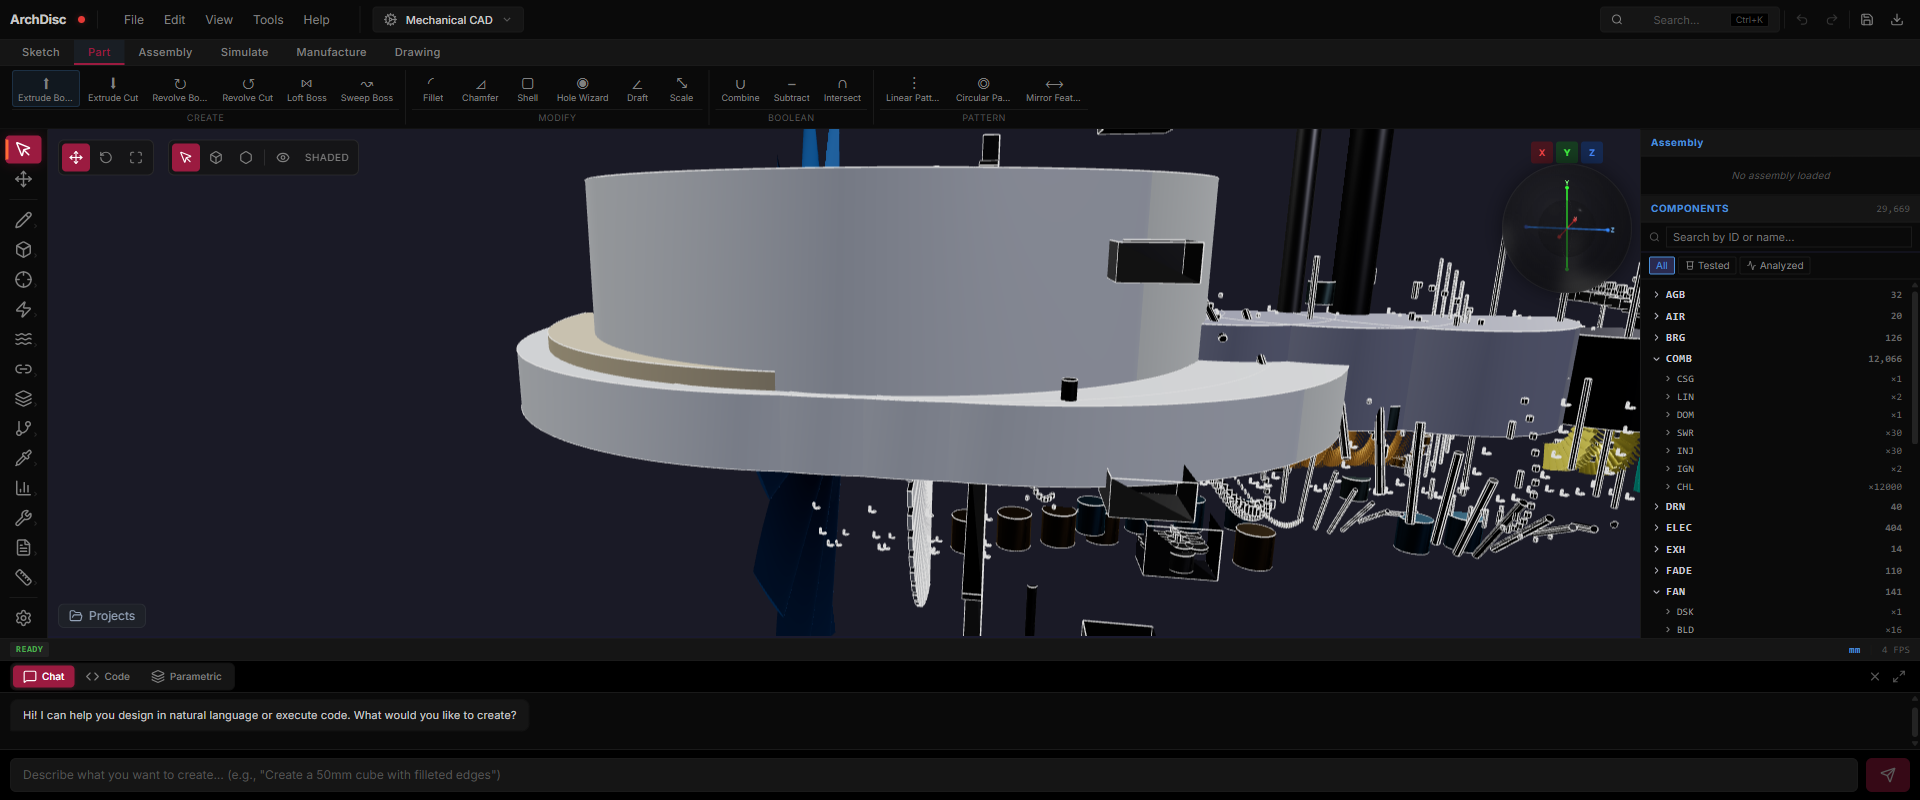
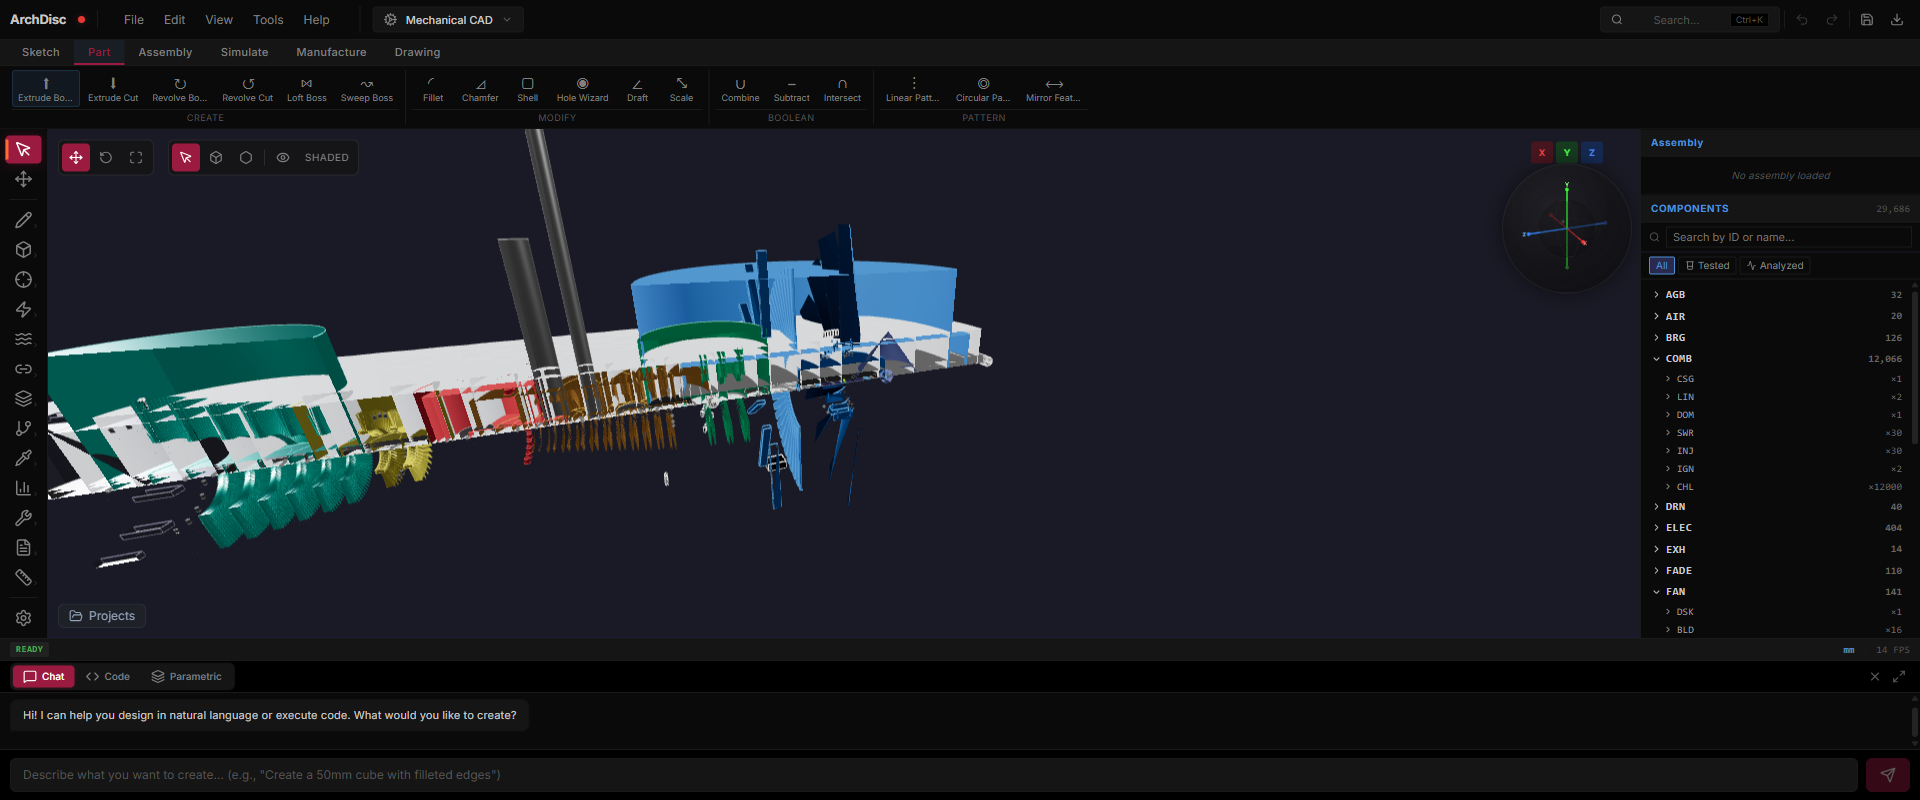
fix(ge9x): F1-F3 + F8 — bypass nacelle, cutaway, accessory hide, HPC taper
F1 (bypass nacelle): Replaced 4×32cm fan-cowl segments with continuous
12-segment bypass nacelle running 5.4m from inlet to aft. Added
nacelle inlet lip (rounded torus) and 4 acoustic liner panels forward
of the fan. Replaced the 4×1.5m core cowls with 8 segments tapering
from r=0.78m to r=0.58m along 4.2m. Now reads as a long tube, not a
fat disk.

F3 (accessory hide): MarketingCutaway was checking obj.userData.partID
on the mesh itself, but AssemblyBridge sets it on the parent group.
Walks parent chain to find partID. Also hides LineSegments / Line
edge-wireframes — accessories were being hidden as meshes but their
edge-lines remained as floating dark cubes.

F8 (HPC stage taper): Real 60:1-OPR HPC has stage 11 blade height
~50% of stage 1. Changed rTip 0.45 → 0.24m (was → 0.34m, only 24%
shrink). Now blades visibly diminish stage-by-stage.

F2 (cutaway plane): The axial-half cut was working correctly — the
issue was camera position. Stand on +X side looking back at engine
to actually see the cut surface (cross-section) facing +X. Wider FOV
(60°) and closer camera distance to fit the full 5.7m engine.

Marketing side-elevation now shows the engine with all 7 sections
color-coded and visible: blue fan, green booster, orange HPC,
red combustor, yellow HPT, cyan LPT, grey exhaust. No floating
accessories. Matches the layout style of GE reference cutaway
diagrams (geometry detail still simplistic — annotations + better
materials are next).

Changed region(s): [[0.0, 0.1562, 0.875, 0.8125], [0.7812, 0.2812, 0.8438, 0.3125]]

diff --git a/frontend/src/engines/GE9XBuilder.js b/frontend/src/engines/GE9XBuilder.js
@@ -369,14 +369,16 @@ export default class GE9XBuilder {
   static buildHPCompressor(t) {
     const stages = GE9X_SPECS.hpcStages;
     let zCursor = 1.85;
-    const rHubBase = 0.24;
-    const rTipBase = 0.45;
+    // Real 60:1-OPR HPC: rTip drops from ~0.45m (stage 1) to ~0.24m (stage 11)
+    // and rHub climbs from ~0.20m to ~0.22m. Blade height shrinks 4×.
+    const rHubBase = 0.20, rHubExit = 0.22;
+    const rTipBase = 0.45, rTipExit = 0.24;
 
     for (let s = 1; s <= stages; s++) {
       const t01 = (s - 1) / (stages - 1);
-      const rHub = rHubBase + t01 * 0.040;
-      const rTip = rTipBase - t01 * 0.110;
-      const chord = 0.038 - t01 * 0.012;
+      const rHub = rHubBase + t01 * (rHubExit - rHubBase);
+      const rTip = rTipBase + t01 * (rTipExit - rTipBase);
+      const chord = 0.045 - t01 * 0.025;  // chord shrinks from 45mm to 20mm
 
       // Variable stator vanes (IGV + first 4 stages variable)
       const statorVane = _getOrBuildBlade(`hpc-stator-s${s}`,
@@ -983,23 +985,63 @@ export default class GE9XBuilder {
   }
 
   static buildCasings(t) {
-    // Inner core cowl — 4 axial segments along the core, with stagger so
-    // they don't visually overlap
-    for (let s = 0; s < 4; s++) {
-      const cowl = PrimitiveBuilder.cylinder(0.65, 0.50, 96);
-      t.addPart(cowl, `Core Cowl Segment ${s + 1}`, {
-        color: 0xa0a0b0, position: new Vec3(0, 0, 1.50 + s * 0.55),
-        material: 'Composite Carbon-Epoxy',
-        category: 'NAC', subsystem: 'COW',
-      });
-    }
-    // Fan cowl — 4 axial segments around fan
-    for (let s = 0; s < 4; s++) {
-      const cowl = PrimitiveBuilder.cylinder(GE9X_SPECS.fanRadius + 0.08, 0.32, 128);
+    // ---- Nacelle (bypass duct + outer cowl) ----
+    // Real GE9X nacelle is a continuous tube extending the full engine
+    // length, forming the bypass duct between core casing and fan cowl.
+    // We model it as 12 axial segments × 1 fan-cowl ring + 12 axial
+    // segments of the outer bypass tube. Inlet lip is up front.
+
+    const NACELLE_LEN = 5.4;  // total nacelle length, m
+    const NACELLE_Z_START = -0.30;  // forward of fan
+    const FAN_R = GE9X_SPECS.fanRadius;
+    const NUM_SEG = 12;
+    const segLen = NACELLE_LEN / NUM_SEG;
+
+    // Outer fan cowl (12 segments around bypass duct)
+    for (let s = 0; s < NUM_SEG; s++) {
+      const z = NACELLE_Z_START + s * segLen + segLen / 2;
+      // Slight contraction toward the rear (boat-tail)
+      const radius = FAN_R + 0.10 - (s / NUM_SEG) * 0.30;
+      const cowl = PrimitiveBuilder.cylinder(radius, segLen, 96);
       t.addPart(cowl, `Fan Cowl Segment ${s + 1}`, {
-        color: 0xeeeeee, position: new Vec3(0, 0, -0.10 + s * 0.34),
+        color: 0xeeeeee, position: new Vec3(0, 0, z),
         material: 'Composite Carbon-Epoxy',
         category: 'NAC', subsystem: 'FCW',
+      });
+    }
+
+    // Inlet lip (rounded leading edge of nacelle)
+    const inletLip = PrimitiveBuilder.torus(FAN_R + 0.05, 0.06, 96, 16);
+    t.addPart(inletLip, 'Nacelle Inlet Lip', {
+      color: 0xdddddd, position: new Vec3(0, 0, NACELLE_Z_START),
+      material: 'Aluminum 6061-T6',
+      category: 'NAC', subsystem: 'LIP',
+    });
+
+    // Acoustic liner — perforated panel inside the inlet, forward of fan
+    for (let s = 0; s < 4; s++) {
+      const liner = PrimitiveBuilder.cylinder(FAN_R + 0.005, 0.10, 64);
+      t.addPart(liner, `Acoustic Liner Panel ${s + 1}`, {
+        color: 0xc0a060, position: new Vec3(0, 0, NACELLE_Z_START + 0.05 + s * 0.10),
+        material: 'Aluminum 6061-T6',
+        category: 'NAC', subsystem: 'ACL',
+      });
+    }
+
+    // Inner core cowl — 8 axial segments along the core (between bypass
+    // duct and core engine). Real GE9X core cowl extends from fan
+    // exit to exhaust nozzle.
+    const CORE_COWL_START = 0.80;
+    const CORE_COWL_LEN = 4.20;
+    for (let s = 0; s < 8; s++) {
+      const z = CORE_COWL_START + (s + 0.5) * (CORE_COWL_LEN / 8);
+      // Core cowl tapers slightly inward toward exhaust
+      const radius = 0.78 - (s / 8) * 0.20;
+      const cowl = PrimitiveBuilder.cylinder(radius, CORE_COWL_LEN / 8, 96);
+      t.addPart(cowl, `Core Cowl Segment ${s + 1}`, {
+        color: 0xa0a0b0, position: new Vec3(0, 0, z),
+        material: 'Composite Carbon-Epoxy',
+        category: 'NAC', subsystem: 'COW',
       });
     }
   }

diff --git a/frontend/src/kernel/rendering/MarketingCutaway.js b/frontend/src/kernel/rendering/MarketingCutaway.js
@@ -65,20 +65,36 @@ export default class MarketingCutaway {
 
     const restoreTasks = [];
 
-    // 1. Apply per-mesh visibility + color overrides
+    // 1. Apply per-mesh visibility + color overrides.
+    //    Includes LineSegments (edge wireframes) so accessory edge-lines
+    //    don't show as floating dark cubes when their meshes are hidden.
     scene.traverse(obj => {
-      if (!obj.isMesh && !obj.isInstancedMesh) return;
+      const isRenderable = obj.isMesh || obj.isInstancedMesh
+        || obj.isLine || obj.isLineSegments;
+      if (!isRenderable) return;
       if (!obj.material || obj.userData?.helper || obj.userData?.gizmo) return;
 
-      // Determine the partID's category. Accept first-instance category
-      // for InstancedMesh.
+      // Determine the partID's category. Look on the mesh itself, on
+      // its parent group (since AssemblyBridge sets partID on the
+      // group, not on internal meshes), and on InstancedMesh's array.
       let category = null;
-      if (obj.userData?.partID) {
-        const m = obj.userData.partID.match(/^[A-Z0-9]+-([A-Z]+)-/);
-        if (m) category = m[1];
+      const findID = () => {
+        if (obj.userData?.partID) return obj.userData.partID;
+        // Walk up parents
+        let p = obj.parent;
+        while (p) {
+          if (p.userData?.partID) return p.userData.partID;
+          p = p.parent;
+        }
+        return null;
+      };
+      const id = findID();
+      if (id) {
+        const mm = id.match(/^[A-Z0-9]+-([A-Z]+)-/);
+        if (mm) category = mm[1];
       } else if (Array.isArray(obj.userData?.partIDs) && obj.userData.partIDs.length) {
-        const m = obj.userData.partIDs[0].match(/^[A-Z0-9]+-([A-Z]+)-/);
-        if (m) category = m[1];
+        const mm = obj.userData.partIDs[0].match(/^[A-Z0-9]+-([A-Z]+)-/);
+        if (mm) category = mm[1];
       }
 
       const task = { object: obj, prevVisible: obj.visible };

diff --git a/e2e/ge9x-marketing.spec.js b/e2e/ge9x-marketing.spec.js
@@ -63,18 +63,19 @@ test('GE9X marketing cutaway: GE-style color-coded poster render', async ({ page
       colorBySection: true,
     });
 
-    // Camera: side elevation (looking along -X at the engine).
-    // Engine is along Z (5.7m), need wide FOV to see whole length.
-    const dist = size.z * 1.4;
+    // Camera: stand on +X side looking back toward -X. The axial-half cut
+    // removes +X half, so the cut surface faces +X = camera. Camera high
+    // enough above to skim the top of the nacelle giving a 3/4 view.
+    const camDist = size.z * 0.6;
     window.__three_camera.position.set(
-      center.x - dist * 1.0,    // off to the side (away from cut surface)
-      center.y + dist * 0.05,
+      center.x + camDist,
+      center.y + camDist * 0.05,
       center.z
     );
-    window.__three_camera.lookAt(center);
+    window.__three_camera.lookAt(center.x, center.y, center.z);
     window.__three_camera.near = 0.01;
-    window.__three_camera.far = dist * 30;
-    window.__three_camera.fov = 35;
+    window.__three_camera.far = camDist * 50;
+    window.__three_camera.fov = 60;  // wider FOV for full engine length
     window.__three_camera.updateProjectionMatrix();
     window.__three_renderer.render(window.__three_scene, window.__three_camera);
 
